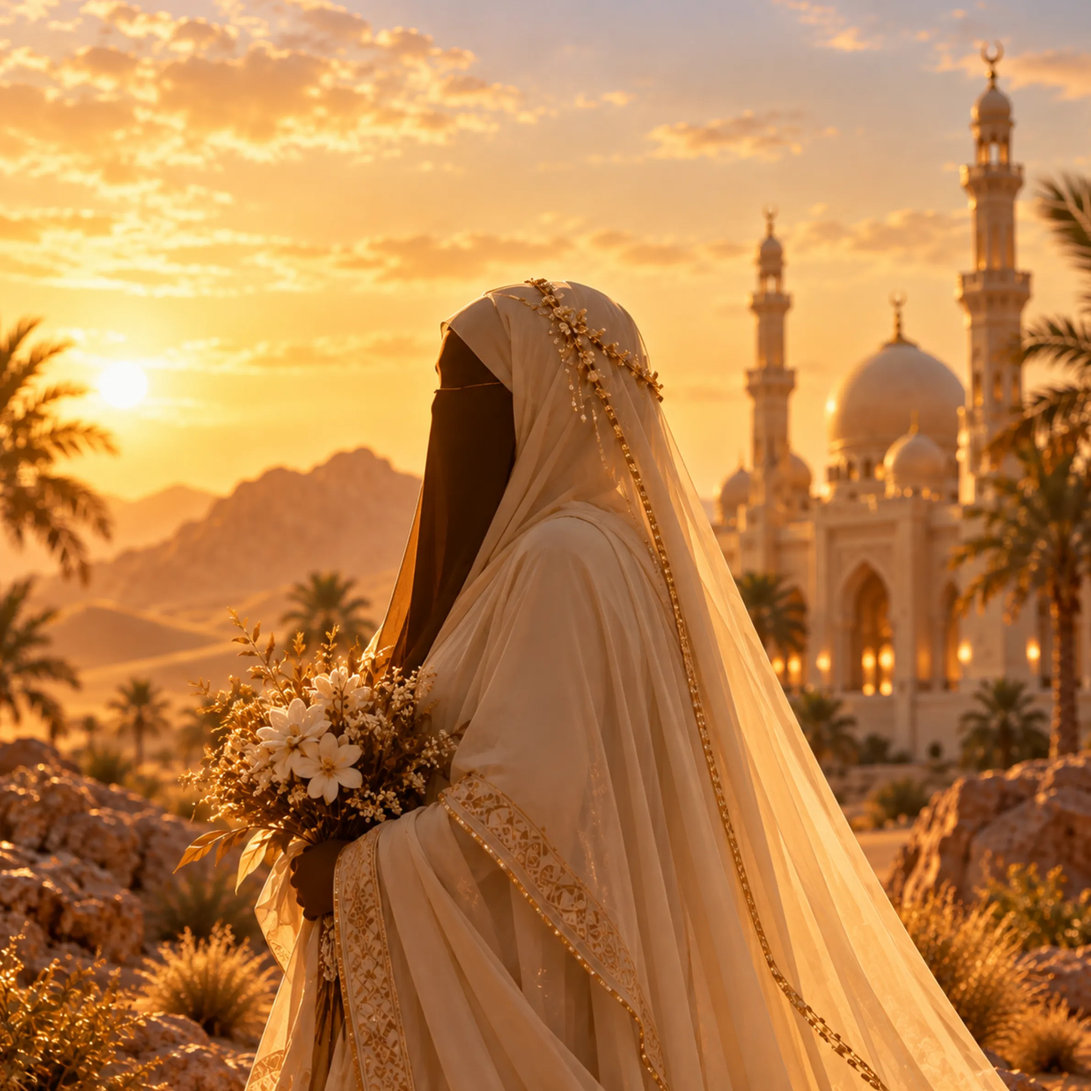
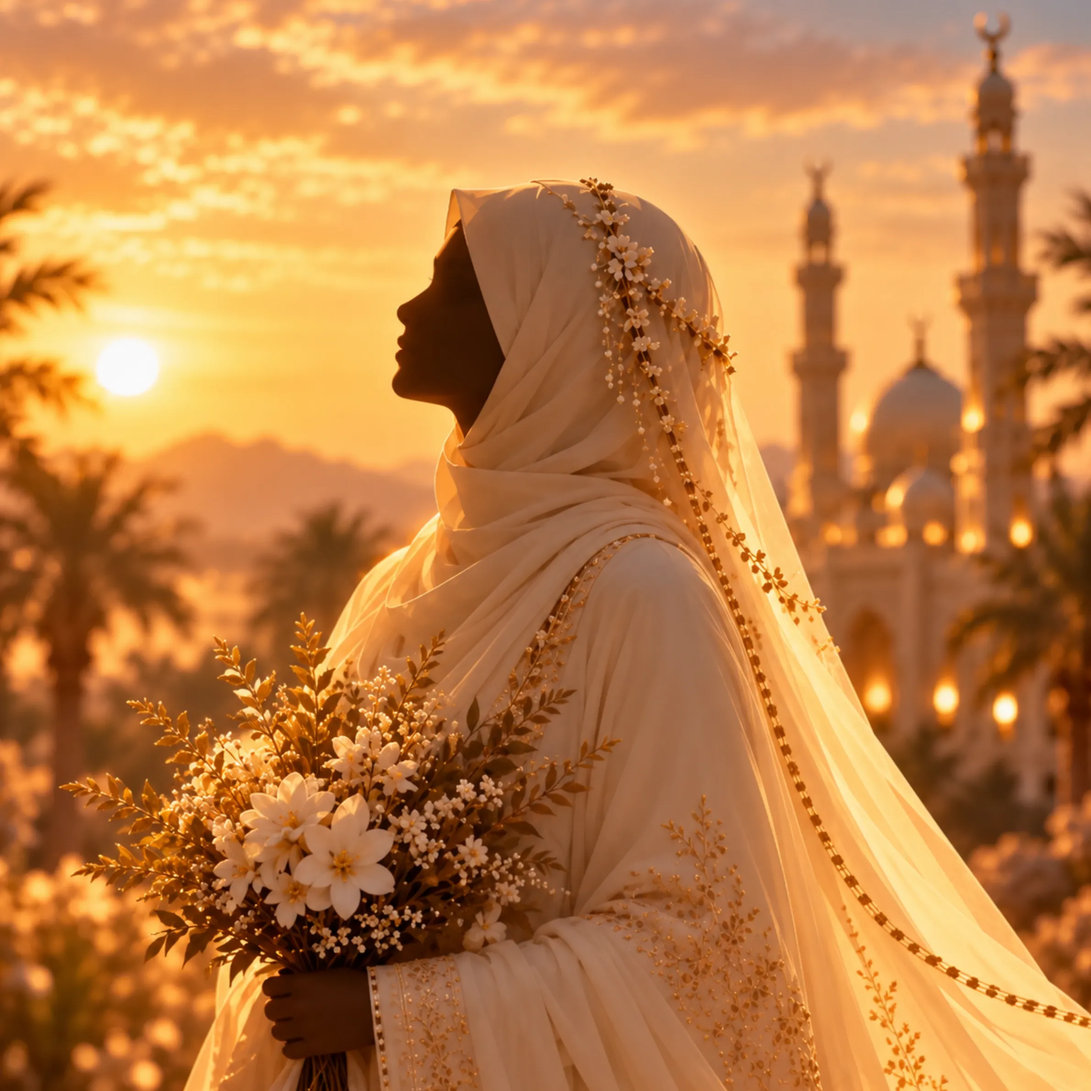
edit: Update index.html and assets

diff --git a/index.html b/index.html
@@ -137,7 +137,7 @@
       transform-origin: center center;
     }
     .hero-scene .curtain-container {
-      position: absolute; inset: 0; width: 90%; height: 100%;
+      position: absolute; inset: 0; width: 100%; height: 100%;
       display: flex; overflow: hidden; z-index: 1;
     }
     .hero-scene .opening-curtain {
@@ -718,7 +718,7 @@
           </div>
           <div class="entrance mt-6">
             <h3 class="script text-4xl text-[#4A3524]">Hafidzul Qulub</h3>
-            <p class="serif text-sm text-[#8A704A] mt-1">Putra ke-6 dari<br>Alm. Bapak Abdullah & Ibu Mushabihah</p>
+            <p class="serif text-sm text-[#8A704A] mt-1">Putra ketiga dari<br>Alm. Bapak H. lisajidin & Ibu Hj. Mamducha</p>
           </div>
         </div>
 
@@ -733,7 +733,7 @@
           </div>
           <div class="entrance mt-6">
             <h3 class="script text-4xl text-[#4A3524]">Zakiyatus Zuhriyah</h3>
-            <p class="serif text-sm text-[#8A704A] mt-1">Putri kedua dari<br>Bapak Purnomo Salim & Ibu Tutut Agustiningsih</p>
+            <p class="serif text-sm text-[#8A704A] mt-1">Putri ketiga dari<br>Bapak Saifuddin Zuhri & Ibu Sofiyah</p>
           </div>
         </div>
       </div>
@@ -791,25 +791,56 @@
             <h3 class="serif text-2xl font-bold text-[#4A3524]">Akad Nikah</h3>
             <p class="mt-3 text-sm text-[#4D4033] font-semibold">Jumat, 20 November 2026</p>
             <p class="mt-1 text-sm text-[#4D4033]">Pukul 08.00 WIB - Selesai</p>
-            <p class="mt-3 text-sm text-[#8A704A] italic">Pondok Pesantren Darussa'adah Gubukklakah</p>
-            <a href="https://www.google.com/maps/search/?api=1&query=Pondok+Pesantren+Darussa'adah+Gubukklakah" target="_blank" class="inline-flex items-center gap-2 mt-5 px-6 py-2.5 rounded-full border border-[#4A3524] bg-transparent text-[10px] font-bold tracking-widest text-[#4A3524] hover:bg-[#4A3524] hover:text-[#FBF7EF] transition-all uppercase">Lihat Peta</a>
+            <p class="mt-3 text-sm text-[#8A704A] italic">Kediaman mempelai wanita</p>
           </div>
 
           <div class="entrance w-12 h-[1.5px] bg-[#B08D45] mx-auto my-8 relative z-30"></div>
 
           <div class="stagger w-full pb-20 relative z-30">
             <h3 class="serif text-2xl font-bold text-[#4A3524]">Resepsi</h3>
-            <p class="mt-3 text-sm text-[#4D4033] font-semibold">Ahad, 20 November 2026</p>
-            <p class="mt-1 text-sm text-[#4D4033]">Pukul 15.00 s.d 20.00 WIB</p>
-            <p class="mt-3 text-sm text-[#8A704A] italic">Gedung SMP Taman Siswa Malang</p>
-            <a href="https://maps.app.goo.gl/ahAT1uLQC4SNVckq8?g_st=aw" target="_blank" class="inline-flex items-center gap-2 mt-5 px-6 py-2.5 rounded-full border border-[#4A3524] bg-transparent text-[10px] font-bold tracking-widest text-[#4A3524] hover:bg-[#4A3524] hover:text-[#FBF7EF] transition-all uppercase">Lihat Peta</a>          </div>
+            <p class="mt-3 text-sm text-[#4D4033] font-semibold">Ahad, 22 November 2026</p>
+            <p class="mt-1 text-sm text-[#4D4033]">Pukul 12.00 WIB - Selesai</p>
+            <p class="mt-3 text-sm text-[#8A704A] italic">Kediaman mempelai pria</p>
+            <a href="https://maps.app.goo.gl/UiiyS8KeJWqsV8QX7" target="_blank" class="inline-flex items-center gap-2 mt-5 px-6 py-2.5 rounded-full border border-[#4A3524] bg-transparent text-[10px] font-bold tracking-widest text-[#4A3524] hover:bg-[#4A3524] hover:text-[#FBF7EF] transition-all uppercase">Lihat Peta</a>          </div>
         </div>
       </div>
     </section>
 
     <!-- ================= SECTION 6: LOVE STORY ================= -->
     <section id="love-story" class="relative bg-[#4A3524] px-6 py-24 text-center text-[#FBF7EF]">
-      
+      <!-- Dekorasi bunga dan semak: 9 aset -->
+    <div class="section-flower-layer" aria-hidden="true">
+      <div class="section-decor section-semak-left">
+        <img src="assets/semak1.webp" alt="">
+      </div>
+      <div class="section-decor section-semak-right is-mirror">
+        <img src="assets/semak1.webp" alt="">
+      </div>
+
+      <div class="section-decor section-semak2-left">
+        <img src="assets/semak2.webp" alt="">
+      </div>
+      <div class="section-decor section-semak2-right is-mirror">
+        <img src="assets/semak2.webp" alt="">
+      </div>
+
+      <div class="section-decor section-bunga-center">
+        <img src="assets/bunga3.webp" alt="">
+      </div>
+      <div class="section-decor section-bunga-left">
+        <img src="assets/bunga1.webp" alt="">
+      </div>
+      <div class="section-decor section-bunga-right is-mirror">
+        <img src="assets/bunga1.webp" alt="">
+      </div>
+
+      <div class="section-decor section-bunga2-left">
+        <img src="assets/bunga2.webp" alt="">
+      </div>
+      <div class="section-decor section-bunga2-right is-mirror">
+        <img src="assets/bunga2.webp" alt="">
+      </div>
+    </div>
 
       <div class="relative z-10 max-w-md mx-auto">
         <div class="entrance">
@@ -885,72 +916,7 @@
       </div>
     </section>
 
-    <!-- ================= SECTION 8: WEDDING GIFT ================= -->
-    <section id="wedding-gift" class="relative bg-[#4A3524] px-6 py-24 text-center overflow-hidden">
-      
-<!-- Dekorasi bunga dan semak: 9 aset -->
-<div class="section-flower-layer" aria-hidden="true">
-  <div class="section-decor section-semak-left">
-    <img src="assets/semak1.webp" alt="">
-  </div>
-  <div class="section-decor section-semak-right is-mirror">
-    <img src="assets/semak1.webp" alt="">
-  </div>
-
-  <div class="section-decor section-semak2-left">
-    <img src="assets/semak2.webp" alt="">
-  </div>
-  <div class="section-decor section-semak2-right is-mirror">
-    <img src="assets/semak2.webp" alt="">
-  </div>
-
-  <div class="section-decor section-bunga-center">
-    <img src="assets/bunga3.webp" alt="">
-  </div>
-  <div class="section-decor section-bunga-left">
-    <img src="assets/bunga1.webp" alt="">
-  </div>
-  <div class="section-decor section-bunga-right is-mirror">
-    <img src="assets/bunga1.webp" alt="">
-  </div>
-
-  <div class="section-decor section-bunga2-left">
-    <img src="assets/bunga2.webp" alt="">
-  </div>
-  <div class="section-decor section-bunga2-right is-mirror">
-    <img src="assets/bunga2.webp" alt="">
-  </div>
-</div>
-      <div class="entrance relative z-20 max-w-md mx-auto border-[2px] border-[#B08D45] rounded-3xl overflow-hidden shadow-2xl bg-[#FBF7EF]">
-        <img src="assets/background3.webp" class="absolute inset-0 w-full h-full object-cover object-center z-0" alt="Background Gunung Card">
-        <div class="absolute inset-0 bg-[#FBF7EF]/10 z-0"></div>
-
-        <div class="relative z-20 px-6 py-14 flex flex-col items-center">
-          <div class="entrance w-full">
-            <p class="text-[10px] font-bold tracking-[0.2em] text-[#8A704A] uppercase">Tanda Kasih</p>
-            <h2 class="script mt-2 text-5xl text-[#4A3524]">Wedding Gift</h2>
-            <div class="w-12 h-[1.5px] bg-[#B08D45] mx-auto my-5"></div>
-            <p class="text-xs text-[#4D4033] leading-relaxed max-w-xs mx-auto mb-8">Doa restu Anda merupakan karunia terindah bagi kami. Namun jika Anda ingin memberikan tanda kasih, dapat melalui:</p>
-          </div>
-
-          <div class="stagger w-full space-y-5 relative z-30">
-            <div class="rounded-2xl p-5 border border-[#B08D45]/60 bg-white/80 shadow-lg text-left backdrop-blur-sm">
-              <div class="flex justify-between items-center mb-3">
-                <span class="text-xs font-bold tracking-widest text-[#8A704A] uppercase">BNI</span>
-                <span class="serif font-bold text-sm text-[#4A3524]">Bank Negara Indonesia</span>
-              </div>
-              <p class="text-xs text-[#4D4033] mb-1">Nomor Rekening:</p>
-              <div class="flex items-center justify-between bg-[#FBF7EF] px-4 py-2.5 rounded-xl border border-[#B08D45]/30 mb-3">
-                <span id="rekening1" class="font-mono font-bold text-base text-[#4A3524] tracking-wider">0830119705</span>
-                <button onclick="copyText('rekening1', this)" class="text-[10px] font-bold tracking-wider px-3 py-1.5 rounded-lg border border-[#4A3524] text-[#4A3524] hover:bg-[#4A3524] hover:text-[#FBF7EF] transition-all uppercase">Salin</button>
-              </div>
-              <p class="text-[11px] text-[#8A704A] italic">a.n. Khovivatul Choiriyah</p>
-            </div>
-          </div>
-        </div>
-      </div>
-    </section>
-
+    
     <!-- ================= SECTION 9: RSVP ================= -->
     <section id="rsvp" class="relative bg-[#FBF7EF] px-6 py-24 text-center overflow-hidden">
       
